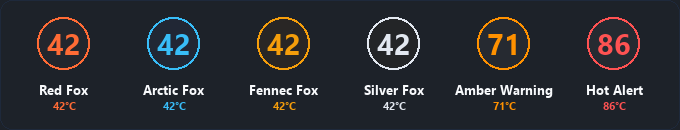
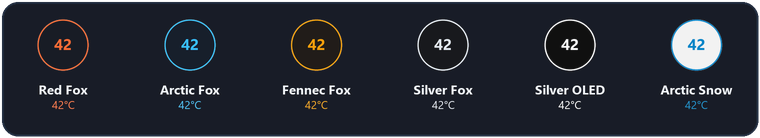
Add files via upload

diff --git a/README.md b/README.md
@@ -133,11 +133,8 @@ Built-in local HTTP + WebSocket server powered by ASP.NET Core Kestrel on `http:
 </p>
 
 * **Real-Time Numeric Temperature Badge:** Renders high-legibility live temperature numbers directly onto your Windows taskbar tray icon using dynamic GDI+ pixel buffers.
-* **Theme-Reactive Styling:** Cool and nominal temperatures (< 65°C) dynamically match your active **Fox Coat Theme** accent color (Red Fox Ember, Arctic Fox Glacial Cyan, Fennec Fox Amber, or Silver Fox Platinum).
-* **Intelligent Thermal Color Escalation:**
-  * 🟢 **Theme Accent (< 65°C):** Cool and nominal desktop workload.
-  * 🟡 **Fox Amber (65°C to 79°C):** Moderate gaming and compiling workload.
-  * 🔴 **Hot Red (≥ 80°C):** High thermal load or heavy stress.
+* **Theme-Reactive Styling:** Dynamically matches your active **Fox Coat Theme** styling (Red Fox Ember, Arctic Fox Glacial Cyan, Fennec Fox Amber, Silver Fox Platinum, Silver Fox OLED True Black, and Arctic Fox Snow White).
+* **Automatic Safety Escalation:** Seamlessly shifts to safety amber (65°C to 79°C) and hot alert red (≥ 80°C) during heavy thermal stress.
 * **Customizable Sensor Target:** Right-click the tray icon to switch between CPU Package Temp, Primary GPU Core Temp, or Highest (CPU or GPU) auto-tracking.
 * **Hover Telemetry Tooltip:** Hover over the tray icon for an instant breakdown of live CPU %, GPU %, and RAM utilization.
 
